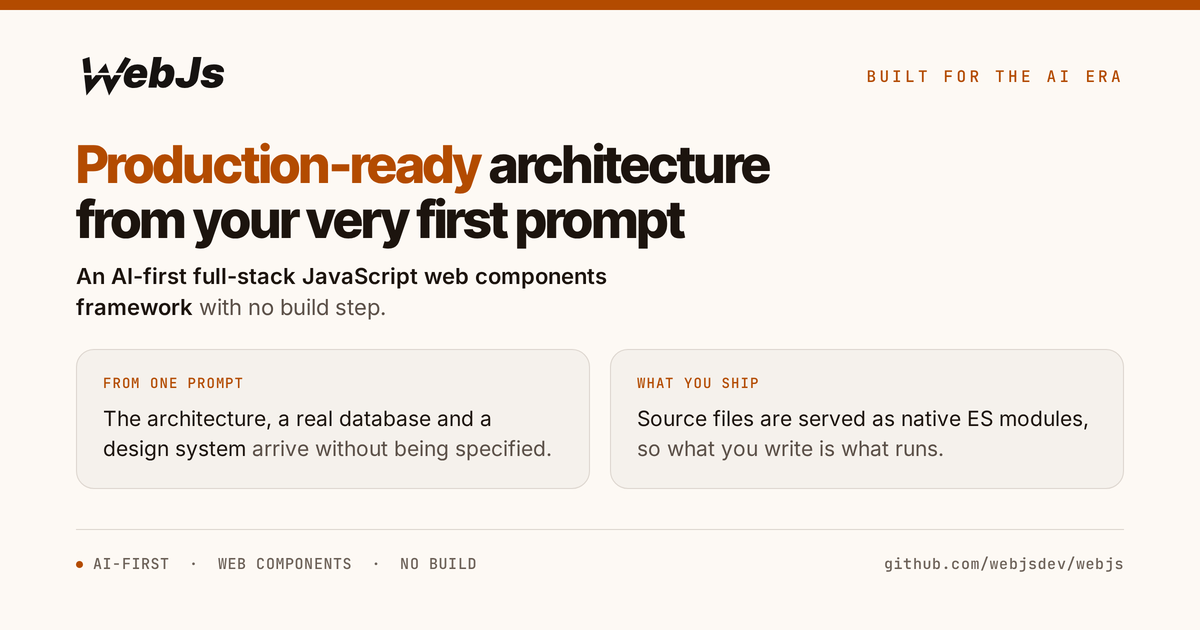
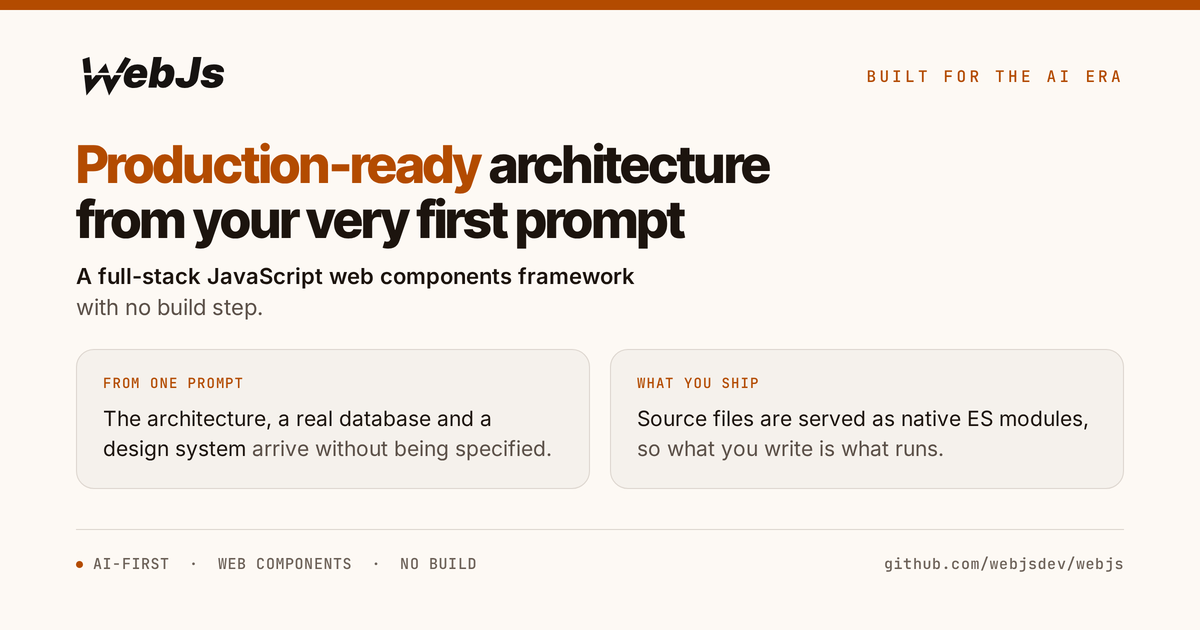
fix(website): drop the intro video and the AI-first lede
The landing page no longer carries the intro video. The bytes stay in the
R2 bucket, so restoring the section later is an editorial call rather than
a re-upload.

"AI-first" comes out of the one-line definition on the landing page,
/why-webjs and /what-is-webjs. It leads with what WebJs is instead. The
sentence is duplicated across the visible lede, the meta description and
the OG-image generator on each page, so all three move together and the
cards are regenerated to match. The positioning is not retired: the
/what-is-webjs FAQ entry and capability card that explain it stay.

/why-webjs also gains "web components" in its category line, which is the
one differentiator the shortest version of the sentence was dropping.

Changed region(s): [[0.0617, 0.4222, 0.5242, 0.5127]]

diff --git a/website/app/page.ts b/website/app/page.ts
@@ -42,7 +42,7 @@ export const metadata = {
       '@id': `${SITE_URL}#website`,
       name: 'WebJs',
       url: SITE_URL,
-      description: 'An AI-first, web-components-first full-stack web framework with no build step.',
+      description: 'A web-components-first full-stack web framework with no build step.',
       publisher: { '@id': `${SITE_URL}#organization` },
     },
     {
@@ -245,92 +245,6 @@ function sourceWindow(title: string, sample: string) {
     </figure>
   `;
 }
-
-/**
- * The landing page's intro video, self-hosted rather than embedded.
- *
- * The player is the browser's own, so it works with scripting disabled. The
- * YouTube iframe this replaced could not, because its player needs JS inside
- * the frame, so the section used to hide itself from a JS-off reader rather
- * than show a broken embed.
- *
- * REPLACING THE VIDEO, for whoever does it next.
- *
- * The bytes live in the Cloudflare R2 bucket `webjs-videos`, served from
- * videos.webjs.dev. The key carries no version, so a new cut overwrites
- * `intro.mp4` in place and nothing in this file changes:
- *
- *   env -u CLOUDFLARE_API_TOKEN npx wrangler r2 object put \
- *     webjs-videos/intro.mp4 --file <new-cut.mp4> \
- *     --content-type video/mp4 \
- *     --cache-control "public, max-age=86400, s-maxage=31536000" \
- *     --remote
- *
- * Then purge that URL at the edge (Caching, then Purge Cache, then the custom
- * single-file purge), or the old bytes keep serving for the `s-maxage` year.
- *
- * Three things about this are easy to get wrong.
- *
- * 1. R2 object metadata cannot be edited after upload. `Cache-Control` is set
- *    at write time or not at all, so every upload has to pass it again. There
- *    is no bucket-level setting, and the dashboard uploader has no field for
- *    it, which is why an upload made there serves no header of its own.
- *
- * 2. The `env -u` is load bearing. A `CLOUDFLARE_API_TOKEN` in the environment
- *    overrides wrangler's OAuth credentials, and that token carries no R2
- *    permission, so the upload fails with an authentication error that names
- *    nothing. Unsetting it for the one call falls back to the OAuth login.
- *
- * 3. A purge clears the edge and never a browser. That is why `max-age` is a
- *    day rather than a year, and why the header is deliberately not
- *    `immutable`: anyone holding the old file needs a way to pick the new one
- *    up, and 24 hours is that way. `s-maxage` keeps the edge copy long lived
- *    regardless, since the edge can be purged and a browser cannot.
- *
- * A versioned key (`intro-2026-08-21.mp4`) is the other valid shape. Take it
- * and the tradeoff inverts: put `immutable` back, raise `max-age` to a year,
- * and update the src below on every cut.
- *
- * The thumbnail at `intro-thumbnail.webp` is uploaded the same way, with
- * `--content-type image/webp`. It is 1920 wide because the box is capped at
- * max-w-3xl (about 718 CSS px), so that already covers a 2x display and a
- * wider encode buys nothing a viewport can show.
- */
-const INTRO_VIDEO = html`
-    <section class="intro-video pb-16">
-      <div class="max-w-3xl mx-auto px-6">
-        <!-- preload="none" fetches nothing but the thumbnail until someone
-             presses play. It is deliberately not "metadata", which is the
-             usual choice and what rubyonrails.org uses. Their file is 658
-             kbps and this one is 2315, and at 400 kbps the metadata read
-             starved the poster: the video had pulled 6.2 MB by the time the
-             thumbnail painted, 25.8 seconds in. The cost is that the controls
-             cannot show the duration until the first play.
-
-             playsinline stops iOS Safari taking the video fullscreen. The
-             width and height state the intrinsic size, which
-             this layout does not lean on (the wrapper is aspect-video and the
-             element is w-full h-full, so CSS fixes the ratio), but which keeps
-             the shape right if the stylesheet ever fails. The src is absolute and
-             cross-origin, so it must not be wrapped in asset(), which resolves
-             a public/ path and would mangle it. -->
-        <div class="aspect-video overflow-hidden border border-border-strong shadow-[var(--shadow)] bg-black">
-          <video
-            class="intro-video-player w-full h-full"
-            src="https://videos.webjs.dev/intro.mp4"
-            poster="https://videos.webjs.dev/intro-thumbnail.webp"
-            aria-label="WebJs introduction video"
-            width="1920"
-            height="1080"
-            preload="none"
-            playsinline
-            controls
-          ></video>
-        </div>
-      </div>
-    </section>
-`;
-
 
 export default function LandingPage() {
   return html`
@@ -535,7 +449,7 @@ export default function LandingPage() {
              bought that back).
 -->
         <p class="text-hero-lede leading-[1.3] text-fg-muted max-w-[64rem] mx-auto mb-9 text-balance">
-          <span class="text-fg font-medium">WebJs is an AI-first full-stack JavaScript web components framework with no build step.</span>
+          <span class="text-fg font-medium">WebJs is a full-stack JavaScript web components framework with no build step.</span>
           You get production-ready architecture from your very first prompt.
         </p>
         <div class="flex gap-3 justify-center flex-wrap items-center">
@@ -555,8 +469,6 @@ export default function LandingPage() {
         </div>
       </div>
     </section>
-
-    ${INTRO_VIDEO}
 
     <section class="py-16">
       <div class="max-w-6xl mx-auto px-6">

diff --git a/website/app/what-is-webjs/page.ts b/website/app/what-is-webjs/page.ts
@@ -41,7 +41,7 @@ const TITLE = 'What is WebJs?';
 // Front-loaded so the first 160 characters answer the query on their own, which
 // is what a SERP snippet and an AI answer engine both quote.
 const DESCRIPTION =
-  'WebJs is an AI-first full-stack JavaScript web framework built on web components. It renders on the server, ships no build step, and runs on Node 24+ or Bun. Pages are real HTML that work before any script loads.';
+  'WebJs is a full-stack JavaScript web framework built on web components. It renders on the server, ships no build step, and runs on Node 24+ or Bun. Pages are real HTML that work before any script loads.';
 
 /**
  * The visible FAQ. Rendered into the page AND parsed into FAQPage JSON-LD from
@@ -53,7 +53,7 @@ const FAQ = [
   {
     question: 'What is WebJs?',
     answer:
-      'WebJs is an AI-first full-stack JavaScript web framework built on web components. It server-renders every page and component to real HTML, needs no build step or bundler, and runs on Node 24+ or Bun. The framework serves your source to the browser exactly as you wrote it, so the code you read is the code that runs.',
+      'WebJs is a full-stack JavaScript web framework built on web components. It server-renders every page and component to real HTML, needs no build step or bundler, and runs on Node 24+ or Bun. The framework serves your source to the browser exactly as you wrote it, so the code you read is the code that runs.',
   },
   {
     question: 'What makes WebJs AI-first?',
@@ -120,7 +120,7 @@ export function generateMetadata() {
       image: `${SITE_URL}/public/og-what.png`,
       'image:width': '1200',
       'image:height': '630',
-      'image:alt': 'What is WebJs? An AI-first full-stack JavaScript web framework built on web components',
+      'image:alt': 'What is WebJs? A full-stack JavaScript web framework built on web components',
       'site_name': 'WebJs',
     },
     twitter: {
@@ -239,7 +239,7 @@ export default function WhatIsWebJs() {
           What is WebJs?
         </h1>
         <p class="text-hero-lede leading-[1.3] text-fg-muted max-w-[64rem] mx-auto mb-6 text-balance">
-          <strong class="text-fg font-semibold">WebJs is an AI-first full-stack JavaScript web
+          <strong class="text-fg font-semibold">WebJs is a full-stack JavaScript web
           framework built on web components.</strong> It server-renders every page and component to
           real HTML, needs no build step or bundler, and runs on Node 24+ or Bun.
         </p>

diff --git a/website/test/ssr/landing-copy-ssr.test.ts b/website/test/ssr/landing-copy-ssr.test.ts
@@ -1,0 +1,38 @@
+/**
+ * The landing page used to carry an intro video, first as a YouTube iframe and
+ * then (#1440) as a native player pointed at videos.webjs.dev. It is gone.
+ *
+ * The bytes are still in the R2 bucket `webjs-videos`, so restoring the section
+ * is an editorial call rather than a re-upload. What these assertions pin is
+ * that it does not come back by accident: an embed added to any of the shared
+ * section helpers would land on this page without anyone editing it here.
+ *
+ * The copy assertions cover the one-line definition of WebJs, which is
+ * duplicated across the visible lede, the meta description, and the OG-image
+ * generator. Pinning the rendered wording is what catches a partial edit that
+ * leaves the search snippet contradicting the page.
+ */
+import test from 'node:test';
+import assert from 'node:assert/strict';
+import { renderToString } from '@webjsdev/core/server';
+import LandingPage from '#app/page.ts';
+
+const render = () => renderToString(LandingPage());
+
+test('the landing page embeds no video of any kind', async () => {
+  const out = await render();
+  assert.doesNotMatch(out, /<video/, 'no native player');
+  assert.doesNotMatch(out, /<iframe/, 'no embed of any kind');
+  assert.doesNotMatch(out, /videos\.webjs\.dev/, 'no reference to the video host');
+  assert.doesNotMatch(out, /youtube-nocookie|youtube\.com\/embed/i, 'no embed url');
+  assert.doesNotMatch(out, /intro-video/, 'no leftover section or styling hook');
+});
+
+test('the hero lede leads with what WebJs is, without the AI-first label', async () => {
+  const out = await render();
+  assert.match(
+    out,
+    /WebJs is a full-stack JavaScript web components framework with no build step\./,
+  );
+  assert.doesNotMatch(out, /AI-first full-stack/, 'the adjective is out of the definition');
+});

diff --git a/website/test/ssr/why-webjs-ssr.test.ts b/website/test/ssr/why-webjs-ssr.test.ts
@@ -17,7 +17,7 @@ test('the pitch page SSRs with its headline, terminals, reason cards, and a main
   const out = await renderToString(Why());
   assert.ok(out.length > 1000, 'renders substantial HTML');
   assert.ok(out.includes('already understands'), 'includes the hero headline');
-  assert.ok(out.includes('full-stack JavaScript framework'), 'states the full-stack framework category');
+  assert.match(out, /full-stack JavaScript web\s+components\s+framework/, 'states the web-components framework category');
   assert.ok(out.includes('npm create webjs@latest my-app'), 'includes the install command');
   assert.ok(out.includes('No training data required'), 'includes the core pitch reason');
   assert.ok(out.includes('node_modules/@webjsdev/core/src'), 'includes the read-the-source terminal proof');

diff --git a/website/app/why-webjs/page.ts b/website/app/why-webjs/page.ts
@@ -118,8 +118,8 @@ export default function Why() {
         The framework your AI agent already understands
       </h1>
       <p class="text-hero-lede leading-[1.3] text-fg-muted max-w-[64rem] mx-auto mb-6 text-balance">
-        <strong class="text-fg font-semibold">WebJs is a full-stack JavaScript framework with no
-        build step, so nothing is hidden from your agent.</strong> The framework ships in
+        <strong class="text-fg font-semibold">WebJs is a full-stack JavaScript web components
+        framework with no build step, so nothing is hidden from your agent.</strong> The framework ships in
         node_modules as plain JavaScript, at the version your app installed.
       </p>
       <p class="text-base leading-[1.7] text-fg-muted max-w-[56ch] mx-auto mb-8 text-pretty">

diff --git a/website/app/layout.ts b/website/app/layout.ts
@@ -43,7 +43,7 @@ const TITLE = 'WebJs: Full-stack web components framework, no build step';
 // The true version of that idea is about LOCATION, not volume: the source sits
 // in the app's own node_modules at the installed version, so an agent opens
 // the file it needs instead of recalling an API from training data.
-const DESCRIPTION = 'An AI-first full-stack JavaScript web components framework with no build step. Production-ready architecture from your very first prompt. Node 24+ or Bun.';
+const DESCRIPTION = 'A full-stack JavaScript web components framework with no build step. Production-ready architecture from your very first prompt. Node 24+ or Bun.';
 
 const NAV = [
   { label: 'Docs', href: DOCS_START_PATH, ext: false },
